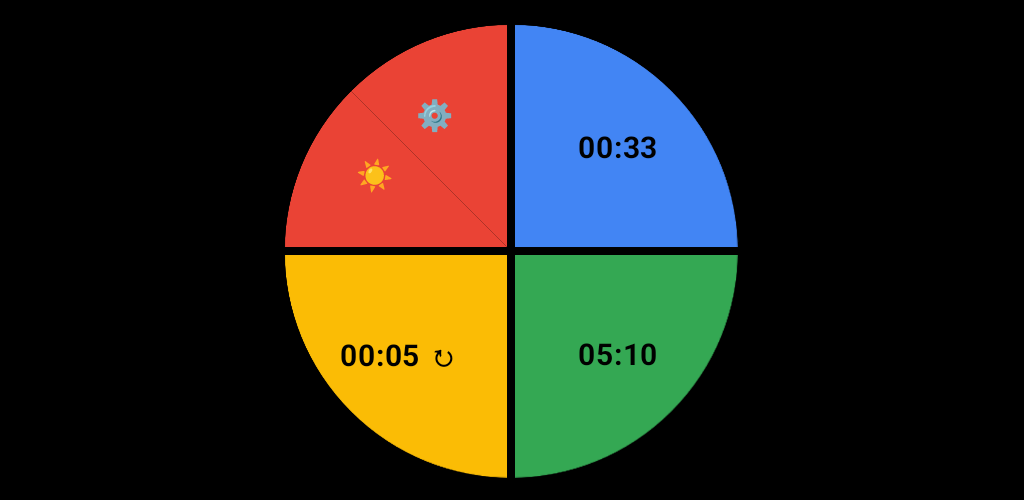
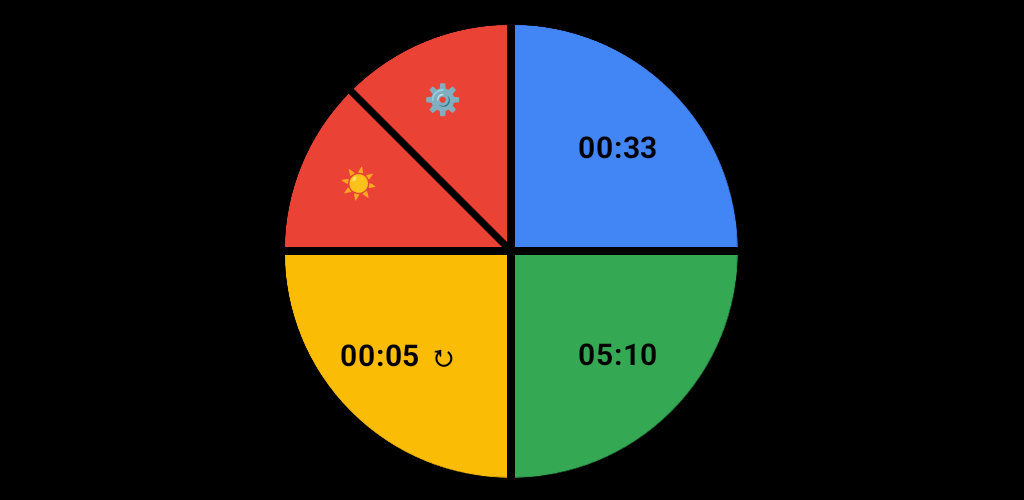
Refactor to use Ongoing Activity (#1)

Changed region(s): [[0.375, 0.15, 0.5, 0.51], [0.3125, 0.33, 0.375, 0.39], [0.3438, 0.18, 0.375, 0.24]]

diff --git a/app/src/main/java/com/cgm/timetwist/service/CountdownService.kt b/app/src/main/java/com/cgm/timetwist/service/CountdownService.kt
@@ -1,24 +1,27 @@
 package com.cgm.timetwist.service
 
-import android.app.Notification
 import android.app.NotificationChannel
 import android.app.NotificationManager
+import android.app.PendingIntent
 import android.app.Service
 import android.content.Context
 import android.content.Intent
-import android.media.SoundPool
+import android.graphics.drawable.Icon
 import android.os.IBinder
-import android.os.VibrationEffect
 import android.os.Vibrator
-import android.os.VibratorManager
+import android.util.Log
+import androidx.core.app.NotificationCompat
+import androidx.core.graphics.drawable.IconCompat
+import androidx.wear.ongoing.OngoingActivity
+import androidx.wear.ongoing.Status
 import com.cgm.timetwist.R
+import com.cgm.timetwist.SoundPoolManager
+import com.cgm.timetwist.VibrationManager
+import com.cgm.timetwist.presentation.MainActivity
 import kotlinx.coroutines.CoroutineScope
 import kotlinx.coroutines.Dispatchers
 import kotlinx.coroutines.delay
 import kotlinx.coroutines.launch
-import android.util.Log
-import com.cgm.timetwist.SoundPoolManager
-import com.cgm.timetwist.VibrationManager
 
 
 class CountdownService : Service() {
@@ -27,6 +30,7 @@ class CountdownService : Service() {
     private var cancelled = false
     private var durationMillis = 0L
     private lateinit var vibrator: Vibrator
+    private var ongoingActivity: OngoingActivity? = null
 
     companion object {
         private const val NOTIFICATION_CHANNEL_ID = "CountdownServiceChannel"
@@ -37,6 +41,7 @@ class CountdownService : Service() {
     override fun onCreate() {
         super.onCreate()
         vibrator = this.getSystemService(Vibrator::class.java)
+        createNotificationChannel()
     }
 
     private fun bigAlert() {
@@ -70,30 +75,7 @@ class CountdownService : Service() {
         smallAlert()
     }
 
-    // Not 100% sure this is necessary.
-    private val notificationId = 83210
-    private fun startNotification() {
-        val notificationChannel = NotificationChannel(
-            NOTIFICATION_CHANNEL_ID,
-            NOTIFICATION_CHANNEL_NAME,
-            NotificationManager.IMPORTANCE_HIGH
-        )
-        notificationChannel.enableVibration(true) // ensure this is on
-        val notificationManager =
-            getSystemService(Context.NOTIFICATION_SERVICE) as NotificationManager
-        notificationManager.createNotificationChannel(notificationChannel)
-
-        val notification = Notification.Builder(this, NOTIFICATION_CHANNEL_ID)
-            .setContentTitle(NOTIFICATION_CHANNEL_NAME)
-            .setContentText("Counting down...")
-            .setSmallIcon(R.mipmap.ic_launcher)
-            .build()
-
-        startForeground(NOTIFICATION_ID, notification)
-    }
-
     override fun onStartCommand(intent: Intent?, flags: Int, startId: Int): Int {
-        startNotification()
         sound = intent?.getBooleanExtra("sound", false) ?: false
         vibration = intent?.getBooleanExtra("vibration", false) ?: false
         durationMillis = intent?.getLongExtra("durationMillis", 0L) ?: 0L
@@ -108,24 +90,21 @@ class CountdownService : Service() {
             timeRemaining = durationMillis - elapsedTime
         }
 
+        // Set up Ongoing Activity
+        setupOngoingActivity(durationMillis)
+
         // This is where the active timer is counted down
         CoroutineScope(Dispatchers.IO).launch {
             cancelled = false
 
-            // Wake Lock might not be necessary with that window-on-flag thing
-            // val powerManager = getSystemService(Context.POWER_SERVICE) as PowerManager
-            // var wakeLock: PowerManager.WakeLock =
-            //     powerManager.newWakeLock(
-            //         PowerManager.PARTIAL_WAKE_LOCK or PowerManager.ON_AFTER_RELEASE,
-            //         "TimeTwist::CountdownService"
-            //     )
-
             // Timer has started
             smallAlert()
+            updateStatus(timeRemaining)
             try {
                 updateTimes()
                 while (timeRemaining > 1000 && !cancelled) {
                     updateTimes()
+                    updateStatus(timeRemaining)
                     alertDevice(this@CountdownService, timeRemaining)
                     delay(1000)
                 }
@@ -135,10 +114,7 @@ class CountdownService : Service() {
                     alertDevice(this@CountdownService, 0)
                 }
             } finally {
-                // if (wakeLock.isHeld) {
-                //     wakeLock.release()
-                // }
-                stopForeground(STOP_FOREGROUND_REMOVE)
+                // OngoingActivity handles stopping foreground implicitly when status is cleared
                 stopSelf()
             }
         }
@@ -155,6 +131,99 @@ class CountdownService : Service() {
         super.onDestroy()
         durationMillis = 0
         cancelled = true
-        stopForeground(STOP_FOREGROUND_REMOVE)
+        ongoingActivity = null
+    }
+
+    private fun createNotificationChannel() {
+        val notificationChannel = NotificationChannel(
+            NOTIFICATION_CHANNEL_ID,
+            NOTIFICATION_CHANNEL_NAME,
+            NotificationManager.IMPORTANCE_LOW
+        ).apply {
+            description = "Shows the ongoing timer"
+            // Vibration is handled by the alerts, not the channel itself for ongoing
+            enableVibration(false)
+        }
+        val notificationManager =
+            getSystemService(Context.NOTIFICATION_SERVICE) as NotificationManager
+        notificationManager.createNotificationChannel(notificationChannel)
+    }
+
+    private fun setupOngoingActivity(initialDurationMillis: Long) {
+        val notificationBuilder = createNotificationBuilder()
+        val notification = notificationBuilder.build()
+
+        Log.d("TimerDebug", "About to call startForeground.") // ADD THIS
+        startForeground(NOTIFICATION_ID, notification)
+        Log.d("TimerDebug", "startForeground finished.")
+
+        val icon: Icon = Icon.createWithResource(applicationContext, R.drawable.notification_icon)
+        val ongoingActivityBuilder =
+            OngoingActivity.Builder(applicationContext, NOTIFICATION_ID, notificationBuilder)
+                .setStaticIcon(icon)
+                .setTouchIntent(createActivityPendingIntent())
+
+        Log.d("setupOngoingActivity", "Building ongoing activity...")
+        ongoingActivity = ongoingActivityBuilder.build()
+        Log.d("setupOngoingActivity", "Ongoing activity built")
+
+        Log.d("setupOngoingActivity", "Applying context...")
+        ongoingActivity?.apply(applicationContext)
+        Log.d("setupOngoingActivity", "Context applied")
+
+        Log.d("setupOngoingActivity", "Updating status...")
+        updateStatus(initialDurationMillis)
+        Log.d("setupOngoingActivity", "Status updated")
+    }
+
+    private fun createNotificationBuilder(): NotificationCompat.Builder {
+        val icon: Icon = Icon.createWithResource(applicationContext, R.drawable.notification_icon)
+        val iconCompat =
+            IconCompat.createWithResource(applicationContext, R.drawable.notification_icon)
+
+        return NotificationCompat.Builder(this, NOTIFICATION_CHANNEL_ID)
+            .setLargeIcon(icon)
+            .setSmallIcon(iconCompat)
+            .setContentTitle(getString(R.string.app_name))
+            .setContentText("Timer running...")
+            .setOngoing(true)
+            .setCategory(NotificationCompat.CATEGORY_STOPWATCH)
+            .setVisibility(NotificationCompat.VISIBILITY_PUBLIC)
+            // Add the intent to open the app when the notification is tapped
+            .setContentIntent(createActivityPendingIntent())
+    }
+
+    // Creates PendingIntent to launch your MainActivity
+    private fun createActivityPendingIntent(): PendingIntent {
+        val intent = Intent(this, MainActivity::class.java)
+        return PendingIntent.getActivity(
+            this,
+            0,
+            intent,
+            PendingIntent.FLAG_UPDATE_CURRENT or PendingIntent.FLAG_IMMUTABLE
+        )
+    }
+
+    // Helper function to format milliseconds into MM:SS or HH:MM:SS
+    private fun formatTime(millis: Long): String {
+        val totalSeconds = millis / 1000
+        val hours = totalSeconds / 3600
+        val minutes = (totalSeconds % 3600) / 60
+        val seconds = totalSeconds % 60
+
+        return if (hours > 0) {
+            String.format("%02d:%02d:%02d", hours, minutes, seconds)
+        } else {
+            String.format("%02d:%02d", minutes, seconds)
+        }
+    }
+
+    private fun updateStatus(timeRemainingMillis: Long) {
+        val timeStr = formatTime(timeRemainingMillis)
+        val status = Status.Builder()
+            .addTemplate("Time left: #time#")
+            .addPart("time", Status.TextPart(timeStr))
+            .build()
+        ongoingActivity?.update(applicationContext, status)
     }
 }

diff --git a/app/src/main/java/com/cgm/timetwist/presentation/MainActivity.kt b/app/src/main/java/com/cgm/timetwist/presentation/MainActivity.kt
@@ -1,12 +1,18 @@
 package com.cgm.timetwist.presentation
 
+import android.Manifest
+import android.content.pm.PackageManager
+import android.os.Build
 import android.os.Bundle
+import android.util.Log
 import android.view.WindowManager
 import androidx.activity.ComponentActivity
 import androidx.activity.compose.setContent
+import androidx.activity.result.contract.ActivityResultContracts
 import androidx.compose.ui.graphics.Color
 import androidx.compose.ui.graphics.lerp
 import androidx.compose.ui.unit.dp
+import androidx.core.content.ContextCompat
 import androidx.lifecycle.viewmodel.compose.viewModel
 import androidx.navigation.compose.NavHost
 import androidx.navigation.compose.composable
@@ -38,12 +44,30 @@ val mutedWhite = muteColor(white, muteFactor)
 
 class MainActivity : ComponentActivity() {
 
+    // Launcher for requesting the notification permission.
+    private val requestPermissionLauncher =
+        registerForActivityResult(ActivityResultContracts.RequestPermission()) { isGranted: Boolean ->
+            if (isGranted) {
+                Log.i("Permission", "POST_NOTIFICATIONS permission granted.")
+                // Permission is granted. You can now safely post notifications.
+            } else {
+                Log.w("Permission", "POST_NOTIFICATIONS permission denied.")
+                // Explain to the user that the feature is unavailable because the
+                // feature requires a permission that the user has denied. At the
+                // same time, respect the user's decision. Don't link to system
+                // settings in an effort to convince the user to change their decision.
+            }
+        }
+
     override fun onCreate(savedInstanceState: Bundle?) {
         super.onCreate(savedInstanceState)
         window.addFlags(WindowManager.LayoutParams.FLAG_KEEP_SCREEN_ON)
 
         SoundPoolManager.initialize(this)
         VibrationManager.initialize(this)
+
+        // Check and request notification permission on Android 13+
+        checkAndRequestNotificationPermission()
 
         setContent {
             val timerViewModel: TimerViewModel = viewModel()
@@ -56,6 +80,32 @@ class MainActivity : ComponentActivity() {
                     val timerId = backStackEntry.arguments?.getString("timerId") ?: "timer0"
                     EditScreen(timerId, navController, timerViewModel)
                 }
+            }
+        }
+    }
+
+    private fun checkAndRequestNotificationPermission() {
+        // Check if the Android version is 13 (TIRAMISU) or higher
+        when {
+            ContextCompat.checkSelfPermission(
+                this, Manifest.permission.POST_NOTIFICATIONS
+            ) == PackageManager.PERMISSION_GRANTED -> {
+                // Permission is already granted
+                Log.i("Permission", "POST_NOTIFICATIONS permission already granted.")
+            }
+
+            shouldShowRequestPermissionRationale(Manifest.permission.POST_NOTIFICATIONS) -> {
+                // Explain to the user why you need the permission.
+                // In an actual app, you might show a dialog here.
+                Log.w("Permission", "Showing rationale for POST_NOTIFICATIONS permission.")
+                // Then, request the permission
+                requestPermissionLauncher.launch(Manifest.permission.POST_NOTIFICATIONS)
+            }
+
+            else -> {
+                // Directly ask for the permission
+                Log.i("Permission", "Requesting POST_NOTIFICATIONS permission.")
+                requestPermissionLauncher.launch(Manifest.permission.POST_NOTIFICATIONS)
             }
         }
     }

diff --git a/app/src/main/java/com/cgm/timetwist/ui/WearApp.kt b/app/src/main/java/com/cgm/timetwist/ui/WearApp.kt
@@ -47,6 +47,7 @@ import androidx.compose.ui.draw.clip
 import androidx.compose.ui.geometry.Size
 
 private class TriangleShape(private val isTopRight: Boolean) : Shape {
+    val gap =  5f
     override fun createOutline(
         size: Size,
         layoutDirection: androidx.compose.ui.unit.LayoutDirection,
@@ -54,13 +55,13 @@ private class TriangleShape(private val isTopRight: Boolean) : Shape {
     ): Outline {
         val path = Path().apply {
             if (isTopRight) {
-                moveTo(0f, 0f)
+                moveTo(gap, 0f)
                 lineTo(size.width, 0f)
-                lineTo(size.width, size.height)
+                lineTo(size.width, size.height-gap)
             } else {
-                moveTo(0f, 0f)
+                moveTo(0f, gap)
                 lineTo(0f, size.height)
-                lineTo(size.width, size.height)
+                lineTo(size.width-gap, size.height)
             }
             close()
         }
@@ -116,7 +117,7 @@ fun WearApp(context: Context, navController: NavController, timerViewModel: Time
                     ) {
                         Text(
                             text = if (inEditMode) "✅" else "⚙",
-                            modifier = Modifier.offset(x = 20.dp, y = (-10).dp),
+                            modifier = Modifier.offset(x = 24.dp, y = (-18).dp),
                             color = if (darkMode) white else black
                         )
                     }
@@ -141,7 +142,7 @@ fun WearApp(context: Context, navController: NavController, timerViewModel: Time
                     ) {
                         Text(
                             text = if (darkMode) "🌑" else "☀",
-                            modifier = Modifier.offset(x = (-10).dp, y = 20.dp),
+                            modifier = Modifier.offset(x = (-18).dp, y = 24.dp),
                             color = if (darkMode) white else black
                         )
                     }

diff --git a/temp.md b/temp.md
@@ -1,8 +1,8 @@
-adb connect 192.168.2.224:39219 
+adb connect 192.168.2.224:38937 
 
-adb -s 192.168.2.224:39219 uninstall com.cgm.timetwist 
+adb -s 192.168.2.224:38937 uninstall com.cgm.timetwist 
 
-adb -s 192.168.2.224:39219 install -r .\app\release\app-release.apk 
+adb -s 192.168.2.224:38937 install -r .\app\release\app-release.apk 
 
 
 adb connect adb-27101JEEJW0064-gneYdC._adb-tls-connect._tcp
